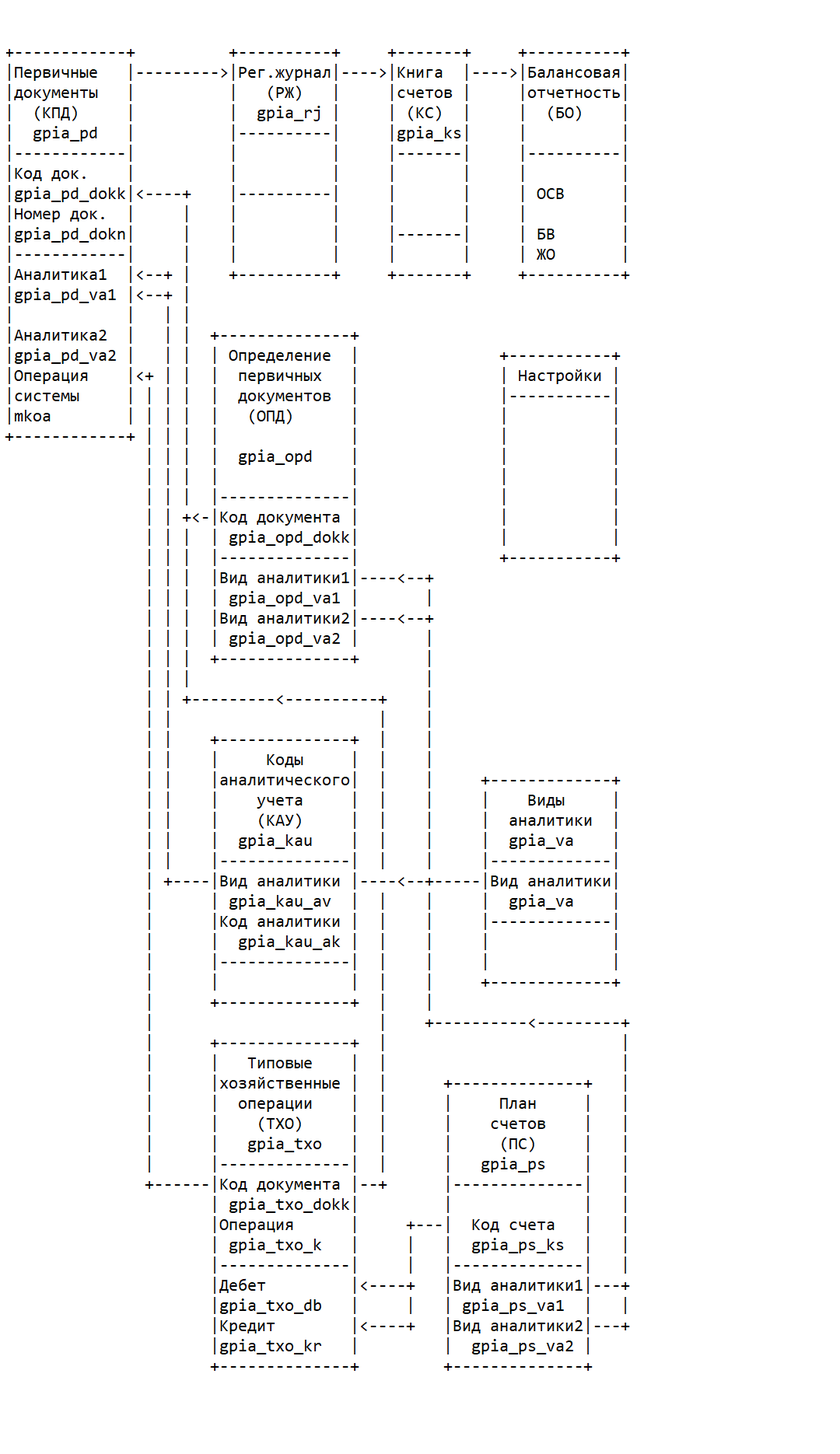
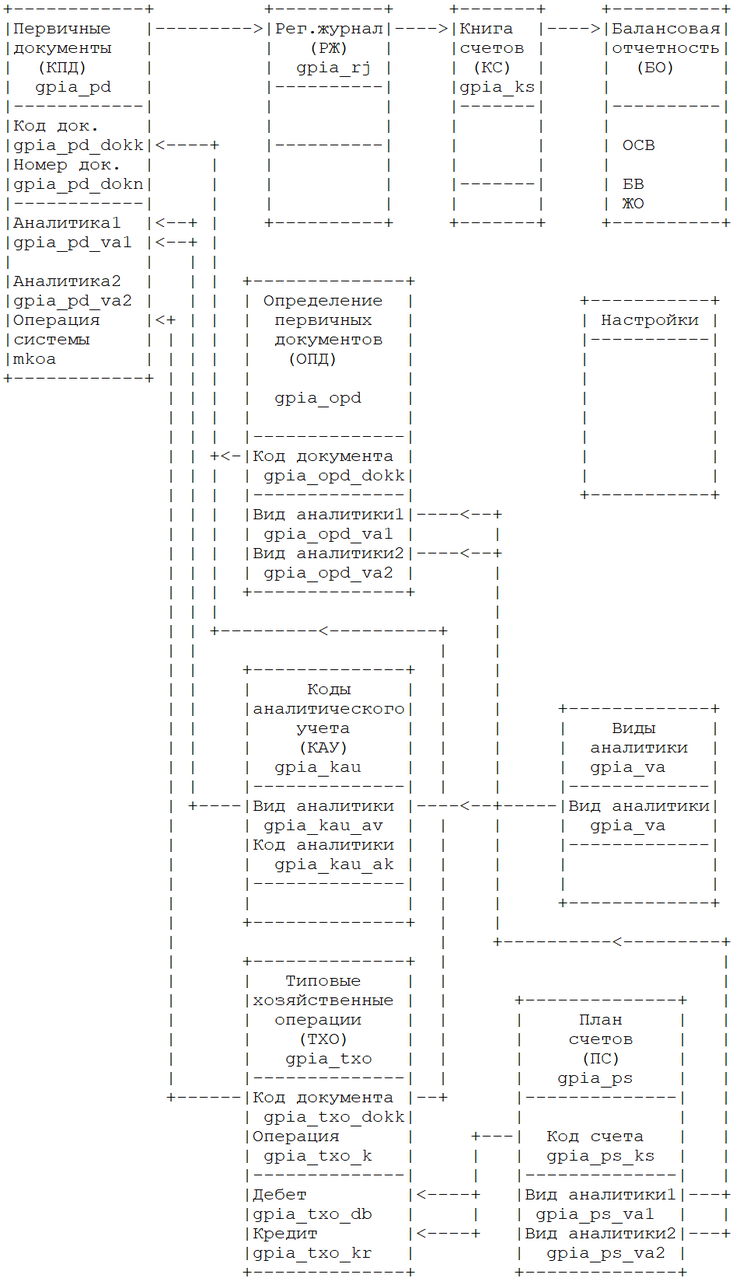
gpi_docs : Updated project gpia

diff --git a/gpi_docs/_tex/gpia_part2.tex b/gpi_docs/_tex/gpia_part2.tex
@@ -1,9 +1,9 @@
 \section{Материалы предварительного проектирования системы}
 \subsection{Функциональная схема обработки данных}
 
-\begin{figure}[!htb]
+\begin{figure}[!htbp]
     \centering
-    \includegraphics[height=19cm]
+    \includegraphics[height=19cm, width=16cm]
         {_assets/gpia_part2.png}
     \caption{Функциональная схема обработки данных}
 \end{figure}
@@ -31,30 +31,34 @@
     \centering
     \scriptsize
     \caption{Первичные документы \gpiFIO\/a\_pd}
-    \begin{tabular}{|l|l|l|} 
+    \begin{tabular}{|p{7cm}|p{7cm}|c|}
 
 \hline
-\textbf{Реквизит}                   &\textbf{Обозначение}&\textbf{Тип и значность}  \\ \hline
-поле связи               =0         &\gpiFIO\/a\_pd\_0        &c1                         \\ \hline
-код документа    < --- opd          &\gpiFIO\/a\_pd\_dokk     &c3                         \\ \hline
-номер документа                     &\gpiFIO\/a\_pd\_dokn     &n5                         \\ \hline
-дата документа                      &\gpiFIO\/a\_pd\_dokd     &D                          \\ \hline
-вид аналитики 1    *opd             &\gpiFIO\/a\_pd\_av1      &c3                         \\ \hline
-тип аналитики 1      =д, к, x       &\gpiFIO\/a\_pd\_avt1     &c1                         \\ \hline
-аналитика код 1   < --- kau         &\gpiFIO\/a\_pd\_ak1      &c10                        \\ \hline
-вид аналитики2                      &\gpiFIO\/a\_pd\_av2      &c3                         \\ \hline
-тип аналитики2                      &\gpiFIO\/a\_pd\_avt2     &c1                         \\ \hline
-аналитика код2                      &\gpiFIO\/a\_pd\_ak2      &c10                        \\ \hline
-вид аналитики3                      &\gpiFIO\/a\_pd\_av3      &c3                         \\ \hline
-тип аналитики3                      &\gpiFIO\/a\_pd\_avt3     &c1                         \\ \hline
-аналитика код3                      &\gpiFIO\/a\_pd\_ak3      &c10                        \\ \hline
-операции                            &\gpiFIO\/a\_pd\_to       &c10                        \\ \hline
-дебет счет *txo                     &\gpiFIO\/a\_pd\_db       &n2                         \\ \hline
-дебет счет субсчет наименование *txo&\gpiFIO\/a\_pd\_dbn      &c10                        \\ \hline
-кредит  *txo                        &\gpiFIO\/a\_pd\_kr       &n2                         \\ \hline
-кредит название*txo                 &\gpiFIO\/a\_pd\_krn      &c10                        \\ \hline
-сумма                               &\gpiFIO\/a\_pd\_rub      &n8                         \\ \hline
-SAE                                 &\gpiFIO\/a\_pd\_sae      &c10                        \\ \hline
+\multicolumn{1}{|c}{\textbf{Реквизит}}
+&\multicolumn{1}{|c}{\textbf{Обозначение}}  
+&\multicolumn{1}{|p{1.6cm}|}{\textbf{Тип и значность}} 
+\\ \hline
+
+поле связи =0                       &\gpiFIO\/a\_pd\_0      &c1     \\ \hline
+код документа < --- opd             &\gpiFIO\/a\_pd\_dokk   &c3     \\ \hline
+номер документа                     &\gpiFIO\/a\_pd\_dokn   &n5     \\ \hline
+дата документа                      &\gpiFIO\/a\_pd\_dokd   &D      \\ \hline
+вид аналитики 1 *opd                &\gpiFIO\/a\_pd\_av1    &c3     \\ \hline
+тип аналитики 1 =д, к, x            &\gpiFIO\/a\_pd\_avt1   &c1     \\ \hline
+аналитика код 1 < --- kau           &\gpiFIO\/a\_pd\_ak1    &c10    \\ \hline
+вид аналитики2                      &\gpiFIO\/a\_pd\_av2    &c3     \\ \hline
+тип аналитики2                      &\gpiFIO\/a\_pd\_avt2   &c1     \\ \hline
+аналитика код2                      &\gpiFIO\/a\_pd\_ak2    &c10    \\ \hline
+вид аналитики3                      &\gpiFIO\/a\_pd\_av3    &c3     \\ \hline
+тип аналитики3                      &\gpiFIO\/a\_pd\_avt3   &c1     \\ \hline
+аналитика код3                      &\gpiFIO\/a\_pd\_ak3    &c10    \\ \hline
+операции                            &\gpiFIO\/a\_pd\_to     &c10    \\ \hline
+дебет счет *txo                     &\gpiFIO\/a\_pd\_db     &n2     \\ \hline
+дебет счет субсчет наименование *txo&\gpiFIO\/a\_pd\_dbn    &c10    \\ \hline
+кредит  *txo                        &\gpiFIO\/a\_pd\_kr     &n2     \\ \hline
+кредит название *txo                &\gpiFIO\/a\_pd\_krn    &c10    \\ \hline
+сумма                               &\gpiFIO\/a\_pd\_rub    &n8     \\ \hline
+SAE                                 &\gpiFIO\/a\_pd\_sae    &c10    \\ \hline
 
     \end{tabular}
 \end{table}
@@ -63,13 +67,17 @@ SAE                                 &\gpiFIO\/a\_pd\_sae      &c10              
     \centering
     \scriptsize
     \caption{Виды аналитики \gpiFIO\/a\_va}
-    \begin{tabular}{|l|l|l|} 
+    \begin{tabular}{|p{7cm}|p{7cm}|c|}
 
-                                                                               \hline
-\textbf{Реквизит}       &\textbf{Обозначение}   &\textbf{Тип и значность}   \\ \hline
-поле связи  	  =0    &\gpiFIO\/a\_va\_0            &c1                         \\ \hline
-вид аналитики           &\gpiFIO\/a\_va\_k            &c3                         \\ \hline
-название вида аналитики &\gpiFIO\/a\_va\_n            &c15                        \\ \hline
+\hline
+\multicolumn{1}{|c}{\textbf{Реквизит}}
+&\multicolumn{1}{|c}{\textbf{Обозначение}}  
+&\multicolumn{1}{|p{1.6cm}|}{\textbf{Тип и значность}} 
+\\ \hline
+
+поле связи =0                       &\gpiFIO\/a\_va\_0      &c1     \\ \hline
+вид аналитики                       &\gpiFIO\/a\_va\_k      &c3     \\ \hline
+название вида аналитики             &\gpiFIO\/a\_va\_n      &c15    \\ \hline
 
     \end{tabular}
 \end{table}
@@ -78,22 +86,26 @@ SAE                                 &\gpiFIO\/a\_pd\_sae      &c10              
     \centering
     \scriptsize
     \caption{Регистрационный журнал (РЖ) \gpiFIO\/a\_rj}
-    \begin{tabular}{|l|l|l|} 
+    \begin{tabular}{|p{7cm}|p{7cm}|c|} 
 
-                                                                                   \hline
-\textbf{Реквизит}           &\textbf{Обозначение}   &\textbf{Тип и значность}   \\ \hline
-поле связи	=0              &\gpiFIO\/a\_rj\_0            &c1                         \\ \hline
-дата операции               &\gpiFIO\/a\_rj\_data         &D                          \\ \hline
-код оправдательного документа&\gpiFIO\/a\_rj\_dokk        &c3                         \\ \hline
-номер документа             &\gpiFIO\/a\_rj\_dokn         &n5                         \\ \hline
-дата документа              &\gpiFIO\/a\_rj\_dokd         &D                          \\ \hline
-содержание операции         &\gpiFIO\/a\_rj\_to           &c10                        \\ \hline
-дебет, счет                 &\gpiFIO\/a\_rj\_db           &n2                         \\ \hline
-дебет, название             &\gpiFIO\/a\_rj\_dbn          &c10                        \\ \hline
-кредит, счет                &\gpiFIO\/a\_rj\_kr           &n2                         \\ \hline
-кредит название             &\gpiFIO\/a\_rj\_krn          &c10                        \\ \hline
-SAE                         &\gpiFIO\/a\_rj\_sae          &c10                        \\ \hline
-Сумма                       &\gpiFIO\/a\_rj\_rub          &n10                        \\ \hline
+\hline
+\multicolumn{1}{|c}{\textbf{Реквизит}}
+&\multicolumn{1}{|c}{\textbf{Обозначение}}  
+&\multicolumn{1}{|p{1.6cm}|}{\textbf{Тип и значность}} 
+\\ \hline
+
+поле связи =0                       &\gpiFIO\/a\_rj\_0      & c1    \\ \hline
+дата операции                       &\gpiFIO\/a\_rj\_data   & D     \\ \hline
+код оправдательного документа       &\gpiFIO\/a\_rj\_dokk   & c3    \\ \hline
+номер документа                     &\gpiFIO\/a\_rj\_dokn   & n5    \\ \hline
+дата документа                      &\gpiFIO\/a\_rj\_dokd   & D     \\ \hline
+содержание операции                 &\gpiFIO\/a\_rj\_to     & c10   \\ \hline
+дебет, счет                         &\gpiFIO\/a\_rj\_db     & n2    \\ \hline
+дебет, название                     &\gpiFIO\/a\_rj\_dbn    & c10   \\ \hline
+кредит, счет                        &\gpiFIO\/a\_rj\_kr     & n2    \\ \hline
+кредит название                     &\gpiFIO\/a\_rj\_krn    & c10   \\ \hline
+SAE                                 &\gpiFIO\/a\_rj\_sae    & c10   \\ \hline
+Сумма                               &\gpiFIO\/a\_rj\_rub    & n10   \\ \hline
 
     \end{tabular}
 \end{table}
@@ -102,23 +114,27 @@ SAE                         &\gpiFIO\/a\_rj\_sae          &c10                  
     \centering
     \scriptsize
     \caption{Книга счетов(КС) \gpiFIO\/a\_ks}
-    \begin{tabular}{|l|l|l|} 
+    \begin{tabular}{|p{7cm}|p{7cm}|c|}
 
-                                                                                   \hline
-\textbf{Реквизит}           &\textbf{Обозначение}   &\textbf{Тип и значность}   \\ \hline
-поле связи  =0              &\gpiFIO\/a\_ks\_0      &c1                                 \\ \hline
-дата операции               &\gpiFIO\/a\_ks\_data   &D                                  \\ \hline
-код оправдательного документа&\gpiFIO\/a\_ks\_dokk  &c3                                 \\ \hline
-номер документа             &\gpiFIO\/a\_ks\_dokn   &n5                                 \\ \hline
-дата документа              &\gpiFIO\/a\_ks\_dokd   &D                                  \\ \hline
-операции                    &\gpiFIO\/a\_ks\_to     &c10                                \\ \hline
-счет                        &\gpiFIO\/a\_ks\_s      &n2                                 \\ \hline
-счёт название               &\gpiFIO\/a\_ks\_sn     &c10                                \\ \hline
-кор. счёт                   &\gpiFIO\/a\_ks\_ks     &n2                                 \\ \hline
-кор. счет наименование      &\gpiFIO\/a\_ks\_ksn    &c10                                \\ \hline
-сумма дб                    &\gpiFIO\/a\_ks\_db     &n10                                \\ \hline
-сумма кр                    &\gpiFIO\/a\_ks\_kr     &n10                                \\ \hline
-SAE                         &\gpiFIO\/a\_ks\_sae    &c10                                \\ \hline
+\hline
+\multicolumn{1}{|c}{\textbf{Реквизит}}
+&\multicolumn{1}{|c}{\textbf{Обозначение}}  
+&\multicolumn{1}{|p{1.6cm}|}{\textbf{Тип и значность}} 
+\\ \hline
+
+поле связи =0                       &\gpiFIO\/a\_ks\_0      &c1     \\ \hline
+дата операции                       &\gpiFIO\/a\_ks\_data   &D      \\ \hline
+код оправдательного документа       &\gpiFIO\/a\_ks\_dokk   &c3     \\ \hline
+номер документа                     &\gpiFIO\/a\_ks\_dokn   &n5     \\ \hline
+дата документа                      &\gpiFIO\/a\_ks\_dokd   &D      \\ \hline
+операции                            &\gpiFIO\/a\_ks\_to     &c10    \\ \hline
+счет                                &\gpiFIO\/a\_ks\_s      &n2     \\ \hline
+счёт название                       &\gpiFIO\/a\_ks\_sn     &c10    \\ \hline
+кор. счёт                           &\gpiFIO\/a\_ks\_ks     &n2     \\ \hline
+кор. счет наименование              &\gpiFIO\/a\_ks\_ksn    &c10    \\ \hline
+сумма дб                            &\gpiFIO\/a\_ks\_db     &n10    \\ \hline
+сумма кр                            &\gpiFIO\/a\_ks\_kr     &n10    \\ \hline
+SAE                                 &\gpiFIO\/a\_ks\_sae    &c10    \\ \hline
 
     \end{tabular}
 \end{table}
@@ -127,19 +143,23 @@ SAE                         &\gpiFIO\/a\_ks\_sae    &c10                        
     \centering
     \scriptsize
     \caption{Определение первичных документов \gpiFIO\/a\_opd}
-    \begin{tabular}{|l|l|l|} 
+    \begin{tabular}{|p{7cm}|p{7cm}|c|}
 
-                                                                                   \hline
-\textbf{Реквизит}           &\textbf{Обозначение}   &\textbf{Тип и значность}   \\ \hline
-поле связи       =0         &\gpiFIO\/a\_opd\_0           &c1                         \\ \hline
-код документа               &\gpiFIO\/a\_opd\_k           &c3                         \\ \hline
-наименование документа      &\gpiFIO\/a\_opd\_n           &c10                        \\ \hline
-вид аналитики 1  < ---  va  &\gpiFIO\/a\_opd\_av1         &c3                         \\ \hline
-тип аналитики 1    =д, к, x &\gpiFIO\/a\_opd\_avt1        &c1                         \\ \hline
-виды аналитики 2            &\gpiFIO\/a\_opd\_av2         &c3                         \\ \hline
-тип аналитики 2             &\gpiFIO\/a\_opd\_avt2        &c1                         \\ \hline
-вид аналитики 3             &\gpiFIO\/a\_opd\_av3         &c3                         \\ \hline
-тип аналитики 2             &\gpiFIO\/a\_opd\_avt3        &c1                         \\ \hline
+\hline
+\multicolumn{1}{|c}{\textbf{Реквизит}}
+&\multicolumn{1}{|c}{\textbf{Обозначение}}  
+&\multicolumn{1}{|p{1.6cm}|}{\textbf{Тип и значность}} 
+\\ \hline
+
+поле связи =0                       &\gpiFIO\/a\_opd\_0     &c1     \\ \hline
+код документа                       &\gpiFIO\/a\_opd\_k     &c3     \\ \hline
+наименование документа              &\gpiFIO\/a\_opd\_n     &c10    \\ \hline
+вид аналитики 1 < --- va            &\gpiFIO\/a\_opd\_av1   &c3     \\ \hline
+тип аналитики 1 =д, к, x            &\gpiFIO\/a\_opd\_avt1  &c1     \\ \hline
+виды аналитики 2                    &\gpiFIO\/a\_opd\_av2   &c3     \\ \hline
+тип аналитики 2                     &\gpiFIO\/a\_opd\_avt2  &c1     \\ \hline
+вид аналитики 3                     &\gpiFIO\/a\_opd\_av3   &c3     \\ \hline
+тип аналитики 2                     &\gpiFIO\/a\_opd\_avt3  &c1     \\ \hline
 
     \end{tabular}
 \end{table}
@@ -148,18 +168,22 @@ SAE                         &\gpiFIO\/a\_ks\_sae    &c10                        
     \centering
     \scriptsize
     \caption{Типовые хозяйственные операции(ТХО) \gpiFIO\/a\_txo}
-    \begin{tabular}{|l|l|l|} 
+    \begin{tabular}{|p{7cm}|p{7cm}|c|}
 
-                                                                                           \hline
-\textbf{Реквизит}                   &\textbf{Обозначение}   &\textbf{Тип и значность}   \\ \hline
-поле связи    =0                    &\gpiFIO\/a\_txo\_0           &c1                         \\ \hline
-код документа        < ---  opd     &\gpiFIO\/a\_txo\_dokk        &c3                         \\ \hline
-Операции                            &\gpiFIO\/a\_txo\_k           &c10                        \\ \hline
-дебет, счёт            < ---  ps\_1 &\gpiFIO\/a\_txo\_db          &n2                         \\ \hline
-дебет, название       * ps\_1       &\gpiFIO\/a\_txo\_dbn         &c10                        \\ \hline
-кредит                   < --- ps\_2&\gpiFIO\/a\_txo\_kr          &n2                         \\ \hline
-кредит, название    * ps\_2         &\gpiFIO\/a\_txo\_krn         &c10                        \\ \hline
-SAE                                 &\gpiFIO\/a\_txo\_sae         &c10                        \\ \hline
+\hline
+\multicolumn{1}{|c}{\textbf{Реквизит}}
+&\multicolumn{1}{|c}{\textbf{Обозначение}}  
+&\multicolumn{1}{|p{1.6cm}|}{\textbf{Тип и значность}} 
+\\ \hline
+
+поле связи =0                       &\gpiFIO\/a\_txo\_0     &c1     \\ \hline
+код документа < ---  opd            &\gpiFIO\/a\_txo\_dokk  &c3     \\ \hline
+Операции                            &\gpiFIO\/a\_txo\_k     &c10    \\ \hline
+дебет, счёт < --- ps\_1             &\gpiFIO\/a\_txo\_db    &n2     \\ \hline
+дебет, название * ps\_1             &\gpiFIO\/a\_txo\_dbn   &c10    \\ \hline
+кредит < --- ps\_2                  &\gpiFIO\/a\_txo\_kr    &n2     \\ \hline
+кредит, название * ps\_2            &\gpiFIO\/a\_txo\_krn   &c10    \\ \hline
+SAE                                 &\gpiFIO\/a\_txo\_sae   &c10    \\ \hline
 
     \end{tabular}
 \end{table}
@@ -168,16 +192,20 @@ SAE                                 &\gpiFIO\/a\_txo\_sae         &c10          
     \centering
     \scriptsize
     \caption{План счетов(ПС) \gpiFIO\/a\_ps}
-    \begin{tabular}{|l|l|l|} 
+    \begin{tabular}{|p{7cm}|p{7cm}|c|} 
 
-                                                                                           \hline
-\textbf{Реквизит}                   &\textbf{Обозначение}   &\textbf{Тип и значность}   \\ \hline
-поле связи        =0                &\gpiFIO\/a\_ps\_0            &c1                         \\ \hline
-счет                                &\gpiFIO\/a\_ps\_s            &n2                         \\ \hline
-название счета                      &\gpiFIO\/a\_ps\_n            &c10                        \\ \hline
-тип счета          = а, п, x        &\gpiFIO\/a\_ps\_typ          &c1                         \\ \hline
-вид аналитики 1 из VA               &\gpiFIO\/a\_ps\_av1          &c3                         \\ \hline
-вид аналитики 2 из VA               &\gpiFIO\/a\_ps\_av2          &c3                         \\ \hline
+\hline
+\multicolumn{1}{|c}{\textbf{Реквизит}}
+&\multicolumn{1}{|c}{\textbf{Обозначение}}  
+&\multicolumn{1}{|p{1.6cm}|}{\textbf{Тип и значность}} 
+\\ \hline
+
+поле связи =0                       &\gpiFIO\/a\_ps\_0      &c1     \\ \hline
+счет                                &\gpiFIO\/a\_ps\_s      &n2     \\ \hline
+название счета                      &\gpiFIO\/a\_ps\_n      &c10    \\ \hline
+тип счета = а, п, x                 &\gpiFIO\/a\_ps\_typ    &c1     \\ \hline
+вид аналитики 1 из VA               &\gpiFIO\/a\_ps\_av1    &c3     \\ \hline
+вид аналитики 2 из VA               &\gpiFIO\/a\_ps\_av2    &c3     \\ \hline
 
     \end{tabular}
 \end{table}
@@ -186,13 +214,17 @@ SAE                                 &\gpiFIO\/a\_txo\_sae         &c10          
     \centering
     \scriptsize
     \caption{Коды аналитического учёта(КАУ) \gpiFIO\/a\_kau}
-    \begin{tabular}{|l|l|l|} 
+    \begin{tabular}{|p{7cm}|p{7cm}|c|} 
 
-                                                                               \hline
-\textbf{Реквизит}       &\textbf{Обозначение}   &\textbf{Тип и значность}   \\ \hline
-поле связи          =0  &\gpiFIO\/a\_kau\_0           &c1                         \\ \hline
-вид аналитики           &\gpiFIO\/a\_kau\_k           &c5                         \\ \hline
-вид аналитики           &\gpiFIO\/a\_kau\_n           &c15                        \\ \hline
+\hline
+\multicolumn{1}{|c}{\textbf{Реквизит}}
+&\multicolumn{1}{|c}{\textbf{Обозначение}}  
+&\multicolumn{1}{|p{1.6cm}|}{\textbf{Тип и значность}} 
+\\ \hline
+
+поле связи =0                       &\gpiFIO\/a\_kau\_0     &c1     \\ \hline
+вид аналитики                       &\gpiFIO\/a\_kau\_k     &c5     \\ \hline
+вид аналитики                       &\gpiFIO\/a\_kau\_n     &c15    \\ \hline
 
     \end{tabular}
 \end{table}
@@ -201,17 +233,21 @@ SAE                                 &\gpiFIO\/a\_txo\_sae         &c10          
     \centering
     \scriptsize
     \caption{Настройки системы \gpiFIO\/a\_nst}
-    \begin{tabular}{|l|l|l|} 
+    \begin{tabular}{|p{7cm}|p{7cm}|c|}
 
-                                                                               \hline
-\textbf{Реквизит}       &\textbf{Обозначение}   &\textbf{Тип и значность}   \\ \hline
-поле связи          =0  &\gpiFIO\/a\_nst\_0           &c1                         \\ \hline
-дата текущая            &\gpiFIO\/a\_nst\_datat       &D                          \\ \hline
-интервал с              &\gpiFIO\/a\_nst\_datas       &D                          \\ \hline
-интервал до             &\gpiFIO\/a\_nst\_datado      &D                          \\ \hline
-cчёт                    &\gpiFIO\/a\_nst\_s           &n2                         \\ \hline
-название счёта          &\gpiFIO\/a\_nst\_sn          &c10                        \\ \hline
-название фирмы          &\gpiFIO\/a\_nst\_firma       &c10                        \\ \hline
+\hline
+\multicolumn{1}{|c}{\textbf{Реквизит}}
+&\multicolumn{1}{|c}{\textbf{Обозначение}}  
+&\multicolumn{1}{|p{1.6cm}|}{\textbf{Тип и значность}} 
+\\ \hline
+
+поле связи =0                       &\gpiFIO\/a\_nst\_0         &c1     \\ \hline
+дата текущая                        &\gpiFIO\/a\_nst\_datat     &D      \\ \hline
+интервал с                          &\gpiFIO\/a\_nst\_datas     &D      \\ \hline
+интервал до                         &\gpiFIO\/a\_nst\_datado    &D      \\ \hline
+cчёт                                &\gpiFIO\/a\_nst\_s         &n2     \\ \hline
+название счёта                      &\gpiFIO\/a\_nst\_sn        &c10    \\ \hline
+название фирмы                      &\gpiFIO\/a\_nst\_firma     &c10    \\ \hline
 
     \end{tabular}
 \end{table}
@@ -222,22 +258,19 @@ cчёт                    &\gpiFIO\/a\_nst\_s           &n2                    
     \centering
     \scriptsize
     \caption{Описание работ}
-    \begin{tabular}{|p{8cm}|p{9cm}|} 
+    \begin{tabular}{|p{6cm}|p{11cm}|} 
 
 % = = = = = = = = = =
 
 \hline
-
-% = = = = = = = = = =
-
-\textbf{Группа работ}
-&
-\textbf{Работы}
+\multicolumn{1}{|c}{\textbf{Группа работ}}
+&\multicolumn{1}{|c|}{\textbf{Работы}}
 \\ \hline
 
 % = = = = = = = = = =
 
-Формирование и разноска первичных документов \par
+Формирование и разноска первичных \par
+документов \par
 \hspace{0pt} \par
 \textbf{\gpiFIO\/a\_Документы}
 &
